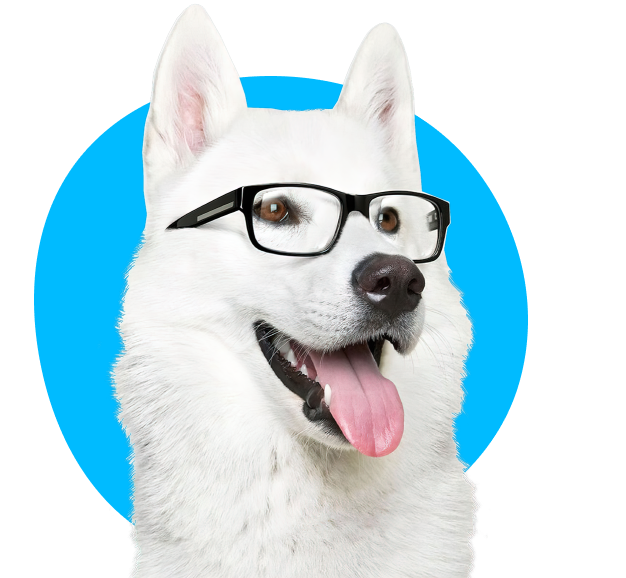
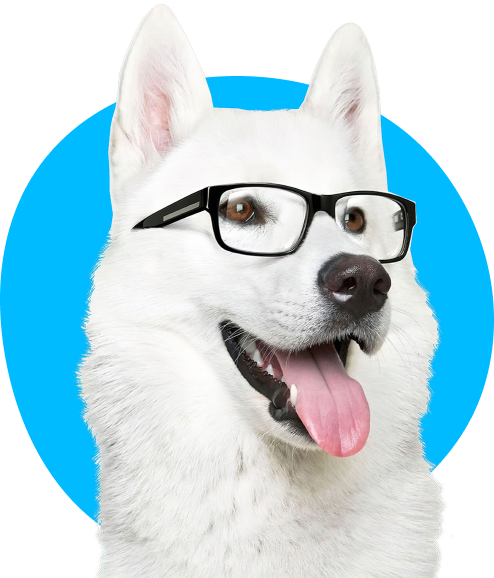
Волны

diff --git a/index.html b/index.html
@@ -16,9 +16,10 @@
     <div class="header-background">
       <div class="container">
 
-        <div ><img class="sobaken" src="./img/Dog.png" alt=""></div>        
+        <img class="sobaken" src="./img/Dog.png" alt="sobaken">  
+        <img class="wave" src="./img/wave.png" alt="wave">
 
-        <div class="navbar d-none d-md-flex justify-content-between align-items-center">
+        <div class="navbar d-none d-lg-flex justify-content-between align-items-center">
           <h1><a href="" class="color-white">VETPET</a></h1>
 
           <div class="nav">

diff --git a/style.css b/style.css
@@ -71,8 +71,16 @@ h1:hover{
 .sobaken{
   position: absolute;
 
-  right: 0%;
-  top: 10%;
+  right: 20%;
+  bottom: 19%;
+}
+
+.wave{
+  position: absolute;
+
+  right: 0;
+  bottom: 0;
+  
 }
 
 .nav-line{
@@ -85,10 +93,16 @@ h1:hover{
   line-height: 18px;
 }
 
-@media screen and (max-width: 1199px){
+@media screen and (max-width: 1399px){
   .sobaken{
     position: absolute;
-    right: 8%;
-    top: 10%;
+    right: 5%;
+  }
+}
+
+@media screen and (max-width: 991px){
+  .sobaken{
+    left: 50%;
+    transform: translate(-50%, -50%);
   }
 }
